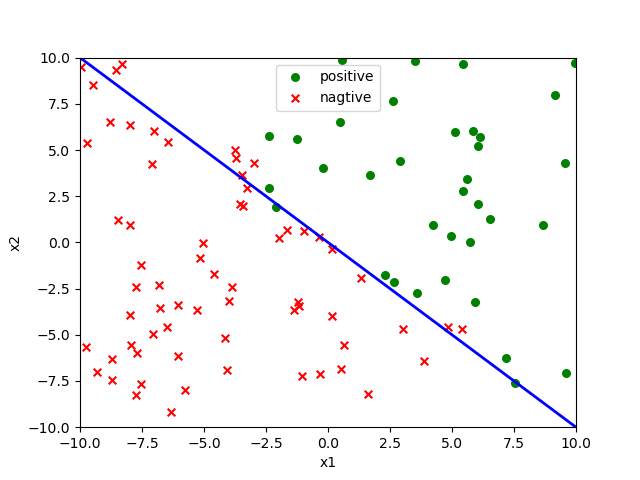
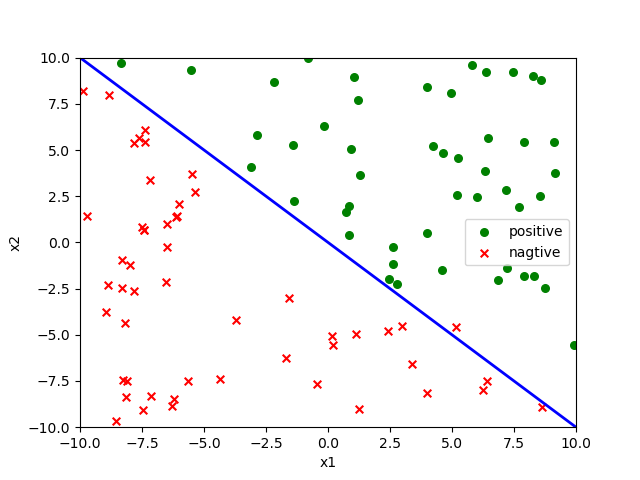
improve code.

diff --git a/K_NearestNeighbor/knn.py b/K_NearestNeighbor/knn.py
@@ -12,13 +12,12 @@ import matplotlib.pyplot as plt
 
 class KNN(object):
     def __init__(self,input,target):
-        self.input = input
         self.target = target
-        self.buildKDTree()
+        self.buildKDTree(input)
 
-    def buildKDTree(self):
+    def buildKDTree(self,data):
         print("building kdtree...")
-        self.kdtree = kdtree.KDTree(self.input,leafsize=2048)
+        self.kdtree = kdtree.KDTree(data,leafsize=2048)
 
     def forecast(self,data,k=3):
         _,loc = self.kdtree.query(data,k)
@@ -75,7 +74,7 @@ if __name__ == "__main__":
             return 1
         else:
             return -1
-    input = np.random.uniform(value_range[0], value_range[1], (100, 2))
+    input = np.random.uniform(value_range[0], value_range[1], (500, 2))
     target = [f(x1, x2) for x1, x2 in input]
 
     model = KNN(input,target)
